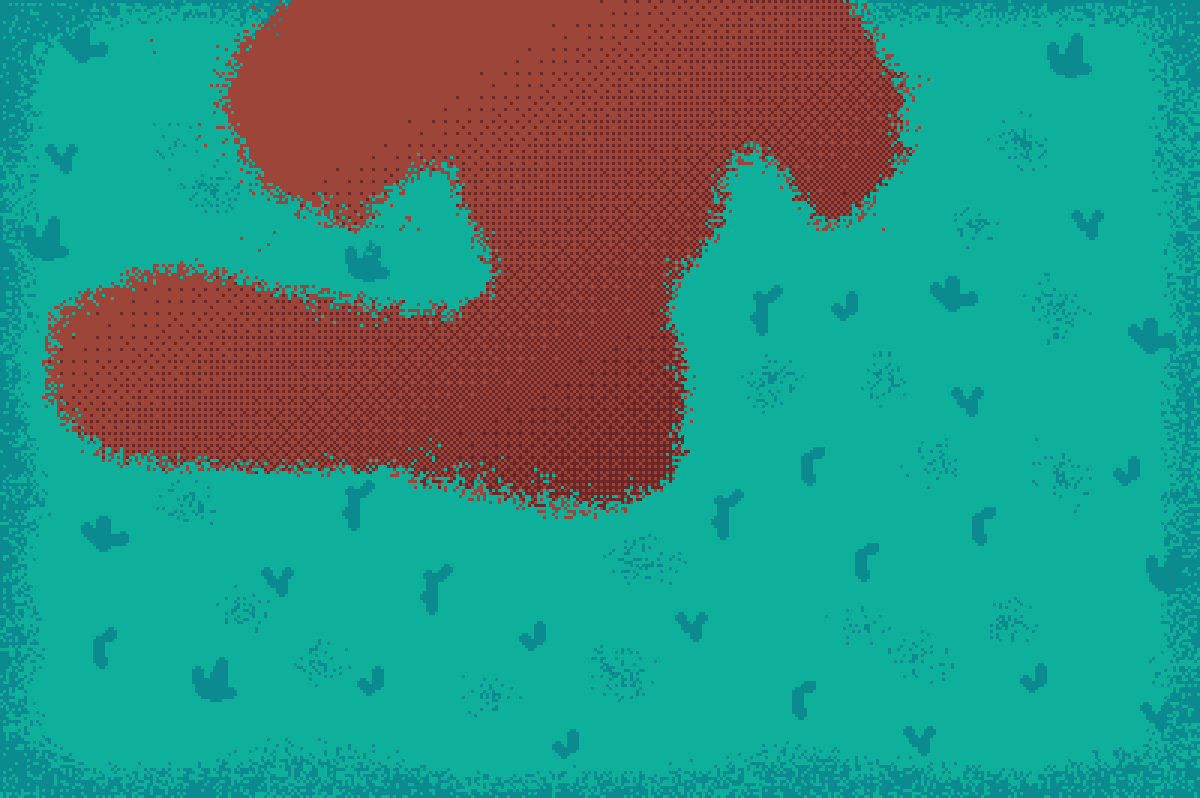
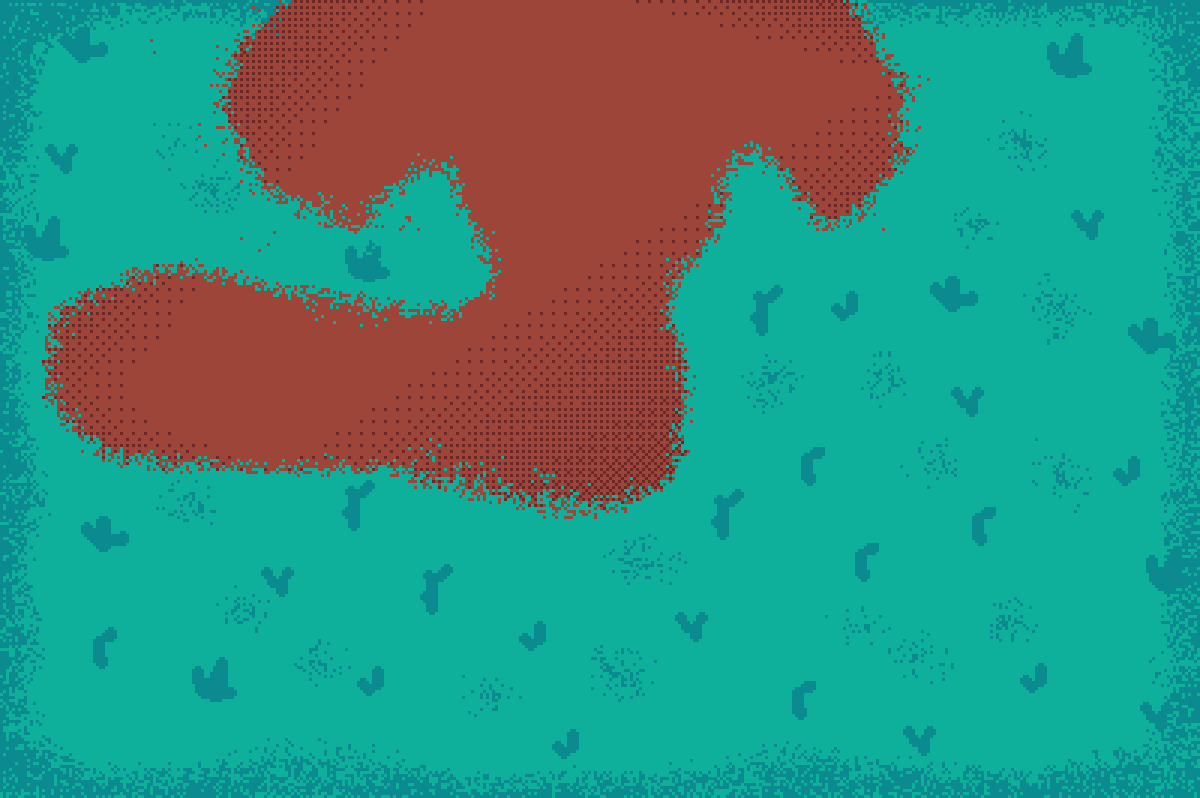
bakgrunner og knappe timer

Changed region(s): [[0.0925, 0.0301, 0.7708, 0.6316], [0.185, 0.0, 0.3083, 0.1805], [0.0308, 0.3609, 0.1233, 0.4211]]

diff --git a/bevegelse.py b/bevegelse.py
@@ -5,7 +5,7 @@ import random
 pygame.init()
 
 # Screen settings
-WIDTH, HEIGHT = 1200, 800
+WIDTH, HEIGHT = 1200, 798
 screen = pygame.display.set_mode((WIDTH, HEIGHT))
 pygame.display.set_caption("Human fighter ultra deluxe+++")
 
@@ -23,9 +23,14 @@ ufo = pygame.image.load('images/gfo.png')
 ufo2 =pygame.transform.scale(ufo, (232, 112))
 alien_rect = alien.get_rect()
 ufo_rect = ufo2.get_rect()
-background1 = pygame.image.load('images/bev_back.png')
+
 beam = pygame.image.load('images\Big_beam.png')
 ufo = pygame.image.load('images\cig_aufo.gif')
+
+background1 = pygame.image.load('images/bev_back.png').convert_alpha()
+background2 = pygame.image.load('images/col_back.png').convert_alpha()
+grass = pygame.image.load('images/grass.png').convert_alpha()
+background3 = pygame.image.load('images/bev_back.png').convert_alpha()
 
 beam_rect=beam.get_rect()
 # Square
@@ -94,12 +99,12 @@ enemys = [
 ]     
 
 humans = [
-    human('cow','Milksplash','Moo','Blind','Drink milk',125,100,670,'images/humancow.png'),
-    human('suit','Moneyspread','Bag throw','Punch','Block',175,300,670,'images/humansuit.png'),
-    human('nerd','Fall down','Super jump','Dodge','Power up',150,500,670,'images/human2.png'),
-    human('hoodie','Stab','Slash','Punch','Hide',225,700,670,'images/humanhoodie.png'),
-    human('fire','Axe chop','Slash','Fireball','Block',250,900,670,'images/humanfire.png'),
-    human('human','Punch','Kick','Dodge','Block',200,1100,670,'images/human.png')
+    human('cow','Milksplash','Moo','Milkshot','Drink milk',125,100,674,'images/humancow.png'),
+    human('suit','Slap','Moneyspread','Bag throw','Block',175,300,674,'images/humansuit.png'),
+    human('nerd','Trip','Super jump','Dodge','Power up',150,500,674,'images/human2.png'),
+    human('hoodie','Punch','Slash','Dodge','Stab',225,700,674,'images/humanhoodie.png'),
+    human('fire','Axe chop','Slash','Fireball','Block',250,900,674,'images/humanfire.png'),
+    human('human','Punch','Kick','Dodge','Block',200,1100,674,'images/human.png')
 ]
 
 pickup1 = humans[0] 
@@ -117,7 +122,7 @@ fiende5 = enemys[4]
 
 pickups = [pickup1,pickup2,pickup3,pickup4,pickup5,pickup6]
 
-player = humans[0] 
+player = humans[5] 
 enemy = enemys[0]  
 # Create buttons
 
@@ -127,10 +132,11 @@ enemy = random.choice(enemys)
 
 angle = 0
 g=3
-phealth= 200
+phealth= player.phealth
+ehealth = enemy.ehealth
 poison=0
 k=5
-
+timer = 1
 active_pickups = random.sample(pickups, 3)
 
 width = player.image.get_width() * 2
@@ -140,6 +146,8 @@ height = player.image.get_height() * 2
 width = enemy.image.get_width() * 2
 height = enemy.image.get_height() * 2
 
+cooldown_max = 60   
+cooldown_counter = 0
 
 # Game loop
 while True:
@@ -227,97 +235,143 @@ while True:
 # combat
 #---------------------------------------------------------------------------------
         elif level=="com":
-            healthbar=pygame.Rect(650, 100, enemy.ehealth*2, 50)
-            healthbar2=pygame.Rect(100, 600, player.phealth*2, 50)
+            healthbar=pygame.Rect(650, 100, ehealth*2, 50)
+            healthbar2=pygame.Rect(100, 600, phealth*2, 50)
             player_scaled = pygame.transform.scale(player.image, (width, height))
             enemy_scaled = pygame.transform.scale(enemy.image, (width, height))
+            if phealth<=0:
+                phealth =0
             for i in range(3):
-                if enemy.ehealth<=0:
-                    enemy.ehealth=0
+                
+                if ehealth<=0:
+                   
+                    ehealth=0
                     g=g-1
                     if g>0:
                         enemy = random.choice(enemys)
-                        
+                        ehealth = enemy.ehealth
                         phealth=phealth+50
-              
+                    
+
+            if cooldown_counter > 0:
+                cooldown_counter -= 1   # counts down 1 per frame
+                timer = 0
+            else:
+                timer = 1           
         
         
-        #knappene kinda
+        #knappene
             for button in buttons:
            
                 if button.clicked(event):
-                    crit=random.randint(1,100)
-                    if crit > 95:
-                        print (f"{crit} crit")
-                    print(f"{button.text} clicked!")
-                    if poison==1:
-                        k=k-1     
-                        te=te-10
+                    if timer == 1 :
+                        cooldown_counter = cooldown_max 
+                        crit=random.randint(1,100)
+                        if crit > 95:
+                            print (f"{crit} crit")
+                        print(f"{button.text} clicked!")
+                        if poison==1:
+                            k=k-1     
+                            te=te-10
                         if k<=0:
                             poison=0
-                    if phealth<=0 or x==0:
-                        if phealth<=0:
-                            print('du tapte')
-                        elif x==0:
-                            print('du vant')
-                    else:
-                        damage=random.randint(1,10)
-                        phealth=phealth-damage
-                        if button.text == 'Stab':
-                            if te<=0:
-                                print(f"{te} Health")
-                            else:
-                                if crit >=95:
-                                    te=te-30
+                        if phealth<=0 or g==0:
+                            if phealth<=0:
+                                print('du tapte')
+                            elif g==0:
+                                print('du vant')
+                        else:
+                            damage=enemy.damage
+                            if g>0:
+                                phealth=phealth-damage
+                            if button.text == 'Punch' or button.text =='Slap':
+                                if ehealth<=0:
+                                    print(f"{ehealth} Health")
+                                
                                 else:
-                                    te = te - 15
-                            if angle==270:
-                                mid = pygame.transform.rotate(mid,0)
-                            else:
-                                mid = pygame.transform.rotate(mid,270-angle)
-                                angle = 270
-                            print(te)
+                                    if crit >=95:
+                                        ehealth-=30
+                                    else:
+                                        ehealth -= 15
+                                if angle==270:
+                                    mid = pygame.transform.rotate(mid,0)
+                                else:
+                                    mid = pygame.transform.rotate(mid,270-angle)
+                                    angle = 270
+                                print(ehealth)
                     
-                        elif button.text == 'Slice':
-                            if te<=0:
-                                print(f"{te} Health")
-                            else:
-                                if crit >=95:
-                                 te=te-20
+                            elif button.text == 'Axe chop' or button.text == 'Milksplash':
+                                if ehealth<=0:
+                                    print(f"{ehealth} Health")
                                 else:
-                                    te = te - 10
-                            if angle==180:
-                                mid = pygame.transform.rotate(mid,0)
-                            else:
-                                mid = pygame.transform.rotate(mid,180-angle)
-                                angle = 180
-                            print(f"{te} Health")
-                        elif button.text == 'Poison':
-                            if te<=0:
+                                    if crit >=95:
+                                        ehealth -= 50
+                                    else:
+                                        ehealth -= 30
+                                if angle==270:
+                                    mid = pygame.transform.rotate(mid,0)
+                                else:
+                                    mid = pygame.transform.rotate(mid,270-angle)
+                                    angle = 270
+                                print(ehealth)
+                          
+                            elif button.text == 'Trip':
+                                if ehealth<=0:
+                                    print(f"{ehealth} Health")
+                                else:
+                                    if crit >=95:
+                                        phealth -= 10
+                                    else:
+                                        phealth -= 5
+                                if angle==270:
+                                    mid = pygame.transform.rotate(mid,0)
+                                else:
+                                    mid = pygame.transform.rotate(mid,270-angle)
+                                    angle = 270
+                                print(ehealth)
+                          
+                            elif button.text == 'Poison':
+                                if te<=0:
+                                    print(f"{te} Health")
+                                else:
+                                    k=5
+                                    poison=1
+                                if angle==360:
+                                    mid = pygame.transform.rotate(mid,0)
+                                else:
+                                    mid = pygame.transform.rotate(mid,360-angle)
+                                    angle = 360
                                 print(f"{te} Health")
-                            else:
-                                k=5
-                                poison=1
-                            if angle==360:
-                                mid = pygame.transform.rotate(mid,0)
-                            else:
-                                mid = pygame.transform.rotate(mid,360-angle)
-                                angle = 360
-                            print(f"{te} Health")
-                        elif button.text == 'Sheild':
-                            if te<=0:
-                                print(f"{te} Health")
-                            else:
-                                phealth=phealth+damage
-                            if angle==90:
-                                mid = pygame.transform.rotate(mid,0)
-                            else:
-                                mid = pygame.transform.rotate(mid,90-angle)
-                                angle = 90
-                            print(f"{te} Health")
+                            elif button.text == 'Block':
+                                    if ehealth<=0:
+                                        print(f"{ehealth} Health")
+                                
+                                    else:
+                                        phealth=phealth+damage
+                                    if angle==90:
+                                        mid = pygame.transform.rotate(mid,0)
+                                    else:
+                                        mid = pygame.transform.rotate(mid,90-angle)
+                                        angle = 90
+                                    print(f"{ehealth} Health")
         
 
+                            for i in range (60):
+                                timer = 0
+                        
+                            timer = 1
     
+
+
+
+
+
+
+                            #if angle==180:
+                               # mid = pygame.transform.rotate(mid,0)
+                           # else:
+                               # mid = pygame.transform.rotate(mid,180-angle)
+                               # angle = 180
   
 
     # Keep square on screen
@@ -326,8 +380,9 @@ while True:
 
     
     # Drawing
-        screen.fill((150, 150, 150))  
+        screen.fill((200,200,200))
         if level =='bev':
+            
             pygame.draw.rect(screen, (0,200,255), wall1)
             pygame.draw.rect(screen, (0,200,255), wall2)
             pygame.draw.rect(screen, (0,200,255), wall1)
@@ -338,14 +393,17 @@ while True:
 
        
         if level=="col":
+            screen.blit(background2,(0,0))
+            
             screen.blit(current_image,(x,y))
             for pickup in active_pickups:
                 screen.blit(pickup.image, (pickup.u, pickup.i))
+            screen.blit(grass,(0,0))
             
           
              
         if level=="com":
-          
+            screen.blit(background1,(0,0))
             screen.blit(player_scaled, (150, 400))  
             screen.blit(enemy_scaled, (800, 300))
             screen.blit(top,(905,500))
@@ -354,7 +412,7 @@ while True:
             screen.blit(bot2,(650,625))
             screen.blit(mid,(892,614))
             text = font.render(
-                f'Health {enemy.ehealth}',
+                f'Health {ehealth}',
                 True,
                 (255, 255, 255)
             )

diff --git a/README.md b/README.md
@@ -13,16 +13,22 @@ menneske kidnapping
 
 
 
-jeg ønsker å få til å lage smooth healthbar
+
 
 
 jeg skal få bildene og karakterene til å vises å funke når du slåss
-og fienede
+og fienede           done
 
-gjøre ferdig kombineringen done
+plukke opp karakterene           done
+
+gjøre ferdig kombineringen            done
 
 fiske bakgrunnene 
 
 fikse hitboxen
 
-plukke opp karakterene
+fiske healtbar
+
+lage ny alien
+
+fikse alle moves
